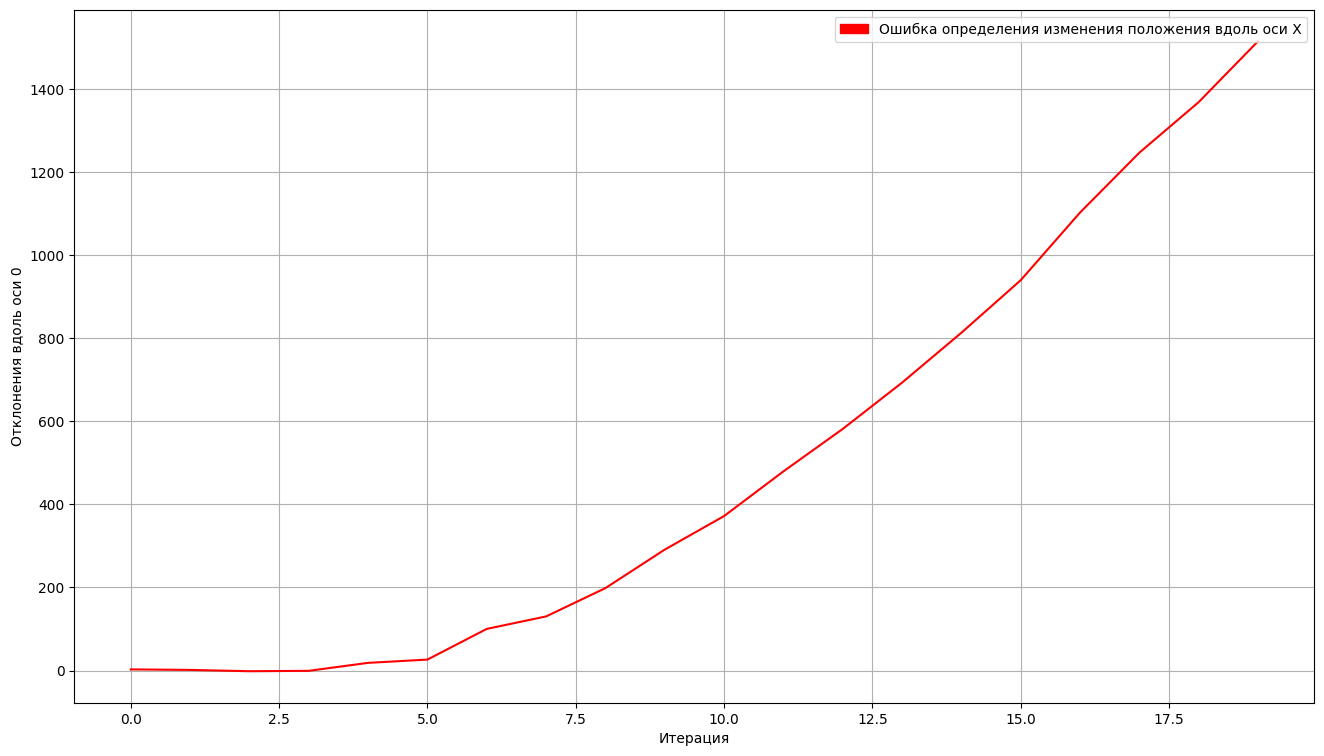
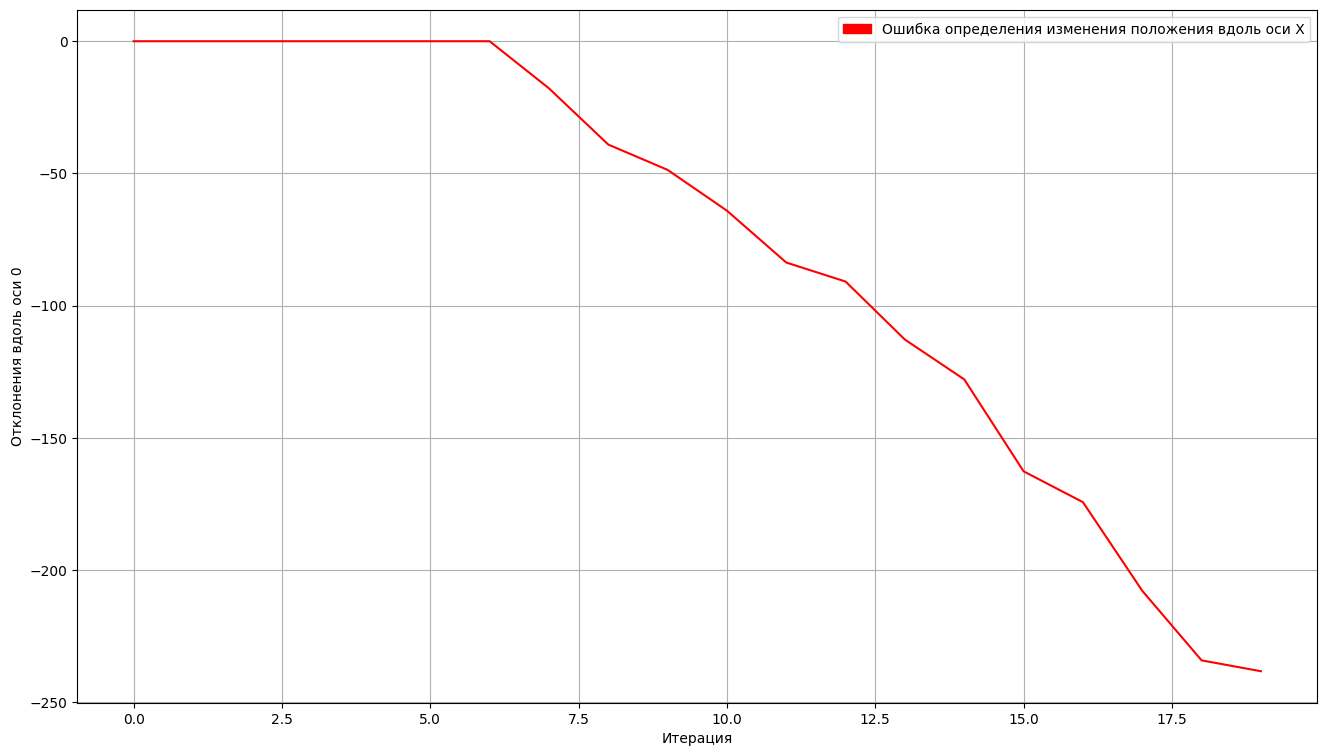
upd

diff --git a/simulation/optical_flow_calculation.py b/simulation/optical_flow_calculation.py
@@ -46,7 +46,7 @@ def calculate_obj_rotation_matrix(
         camera: Camera,
         rotation_matrix: np.ndarray
 ):
-    E, mask = cv2.findEssentialMat(previous_kp, current_kp, camera.internal_matrix, method=cv2.RANSAC)
+    E, mask = cv2.findEssentialMat(previous_kp, current_kp, camera.internal_matrix, method=cv2.LMEDS)
     R1, R2, t = cv2.decomposeEssentialMat(E)
     tmp_rotation_matrix_1 = np.dot(R1, rotation_matrix)
     tmp_rotation_matrix_2 = np.dot(R2, rotation_matrix)
